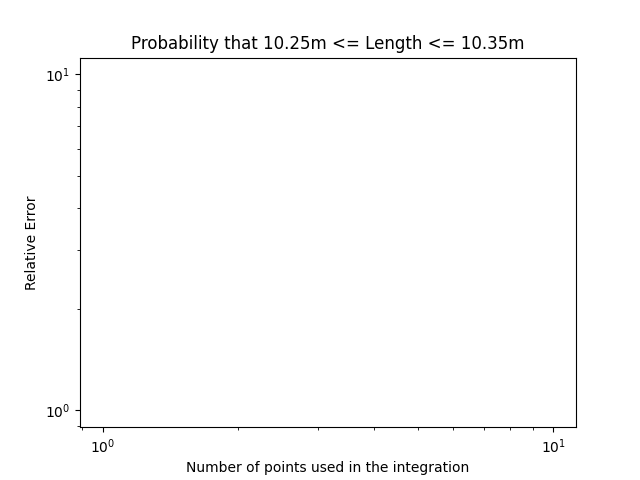
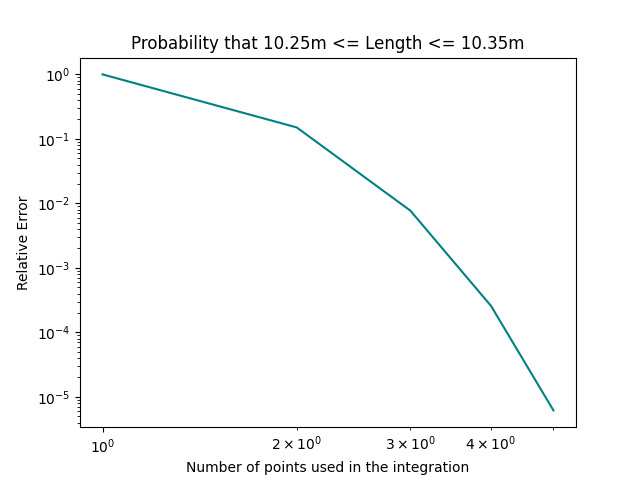
Fixed Gauss

diff --git a/src/goph420_lab01/integration.py b/src/goph420_lab01/integration.py
@@ -74,7 +74,7 @@ def integrate_newton(x,f,alg = "trap"):
     
     return integral
 
-def integrate_gauss(f, lims, npts):
+def integrate_gauss(f, lims, npts = 3):
     """
     Integration from sample points using Gauss-Legendre quadrature
 
@@ -105,10 +105,8 @@ def integrate_gauss(f, lims, npts):
             Float
     """
     #Check that f is callable
-    try:
-        callable(f)
-    except ValueError:
-        print("Object cannot be called")
+    if not callable(f):
+        raise TypeError(f"The function {f} is not callable")
 
     #Check that lims has a length of 2
     if len(lims) != 2:
@@ -121,57 +119,52 @@ def integrate_gauss(f, lims, npts):
     #Change the lims array values into integer values to use in furture
     #Raise error if not possible
     try:
-        a = int(lims[0])
-        b = int(lims[1])
+        a = float(lims[0])
+        b = float(lims[1])
     except ValueError:
         print("The upper or lower limit bounds cannot be changed to integers")
-
-
-
-    #Start the integral at 0
-    integral = 0
-
-    #Change the value of npts into an interger just incase
-    npts = int(npts)
     
-
     #If the number of points = 1
     if npts == 1:
-        weights = [2.0]
         s_k = [0.0]
+        c_k = [2.0]
     
     #If the number of points = 2
     elif npts == 2:
-        weights = [1.0, 1.0]
-        s_k = [-1/np.sqrt(3), 1/np.sqrt(3)]
+        s_k = [- 1 / np.sqrt(3), 1 / np.sqrt(3)]
+        c_k = [1.0, 1.0]
     
     #If the number of points = 3
     elif npts == 3:
-        weights = [5/9, 8/9, 5/9]
-        s_k = [-1/np.sqrt(3/5), 0, np.sqrt(3/5)]
+        s_k = [- np.sqrt(3/5), 0.0, np.sqrt(3/5)]
+        c_k = [5/9, 8/9, 5/9]
 
     #If the number of points = 4
     elif npts == 4:
-        weights = [(18 - np.sqrt(30))/36, (18 + np.sqrt(30))/36, (18 + np.sqrt(30))/36, (18 - np.sqrt(30))/36]
         s_k = [(-1*np.sqrt((3/7) + (2/7)*np.sqrt(6/5))), -1*np.sqrt((3/7) - (2/7)*np.sqrt(6/5)), np.sqrt((3/7) - (2/7)*np.sqrt(6/5)), np.sqrt((3/7) + (2/7)*np.sqrt(6/5))]
-
+        c_k = [(18 - np.sqrt(30))/36, (18 + np.sqrt(30))/36, (18 + np.sqrt(30))/36, (18 - np.sqrt(30))/36]
     #If the number of points = 5
     elif npts == 5:
-        weights = [(322 - 13*np.sqrt(70))/900, (322 + 13*np.sqrt(70))/900, 128/225, (322 + 13*np.sqrt(70))/900, (322 - 13*np.sqrt(70))/900]
         s_k = [-(1/3)*np.sqrt(5+2*np.sqrt(10/7)), -(1/3)*np.sqrt(5-2*np.sqrt(10/7)), 0, (1/3)*np.sqrt(5-2*np.sqrt(10/7)),(1/3)*np.sqrt(5+2*np.sqrt(10/7))]
+        c_k = [(322 - 13*np.sqrt(70))/900, (322 + 13*np.sqrt(70))/900, 128/225, (322 + 13*np.sqrt(70))/900, (322 - 13*np.sqrt(70))/900]
 
-    #Make an empty array for the new changed weights and points
-    transpoints = np.zeros(npts)
-    transweights = np.zeros(npts)
+    #Make an empty array for the new changed/transfromed weights and points
+    transpoints = [0]
+    transweights = [0]
+    
+    #Put the transformed points into the function into an array for the function
+    for i, j in enumerate(s_k):
+        tran_s_k = 0.5*(a + b)+ 0.5 * (b - a) * s_k[i]
+        f_k = f(tran_s_k)
+        transpoints.append(f_k)
+        print(transpoints)
+    
+    for i, j in enumerate(c_k):
+        wk = 0.5* (b - a) * c_k[i]
+        transweights.append(wk)
+        print(transweights)
 
-    #Finding the changes weights and s_k
-    for i in range (0, npts):
-        transweights[i] = (((b - a) / 2) * weights[i])
-        transpoints[i] = (0.5 * (a + b) + 0.5 * (b - a) * s_k[i])
-
-    #Calculating the integral, need to put the new points into the function
-    for i in range (0, npts):
-        integral += transweights[i] * f(transpoints[i])
+    #Calculating the integral (sum of the product of the transformed weights and the function of the transformed points)
+    integral = np.sum(np.array(transweights) * np.array(transpoints))
     return integral
-
 

diff --git a/examples/driver_probability.py b/examples/driver_probability.py
@@ -25,7 +25,7 @@ def main():
     #Calculate the probablitiy of a M > 4.0 event, lims upper bound is 4 while the mean of 0.5 is the lower bound
     for i in npts:
         new_integral = integrate_gauss(f, lims = [1.5, 4], npts = i)
-        print(new_integral)
+        #print(new_integral)
         eps_a = np.abs(new_integral - past_integral) / new_integral
         #Add the convergence of the integral to the array
         converged_integrals.append(new_integral)
@@ -48,10 +48,10 @@ def main():
     npts = [1,2,3,4,5]
 
     #Function from equation 17
-    f = lambda x: (1/np.sqrt(2 * np.pi)) * (np.exp((-1 / 2)*((x - mean) / (std_dev) ** 2)))
+    f = lambda x: (1/ np.sqrt(2 * np.pi)) * (np.exp(-0.5*((x - mean) ** 2 / (std_dev) ** 2)))
     
     #Creating arrays for the convergent integrals as well as the relative errors
-    convergent_integrals = []
+    converged_integrals = []
     relative_error = []
 
     #Initialization past integral
@@ -60,7 +60,7 @@ def main():
     
     for i in npts:
         new_integral = integrate_gauss(f, lims = [10.25, 10.35], npts = i)
-        print(new_integral)
+        #print(new_integral)
         eps_a = np.abs(new_integral - past_integral) / new_integral
         #Add the convergence of the integral to the array
         converged_integrals.append(new_integral)

diff --git a/tests/test_newton_cotes.py b/tests/test_newton_cotes.py
@@ -19,7 +19,7 @@ class TestNewtonCotes(unittest.TestCase):
     #Test simp rule with odd number of data points
     def testSimpOdd(self):
         self.x = [0,1,2]
-        self.f = -1 * self.x ** 2
+        self.f = [0,-1,-4]
         self.newInt = integrate_newton(self.x,self.f, alg = "simp")
         #Check that they're equal
         expected = -1 * (8 / 3)
@@ -28,10 +28,10 @@ class TestNewtonCotes(unittest.TestCase):
     #Test simp rule with even number of data points
     def testSimpEven(self):
         self.x = [0,1,2,3]
-        self.f = -1 * self.x ** 2
+        self.f = [0,-1,-4,-9]
         self.newInt = integrate_newton(self.x, self.f, alg = "simp")
         #Check that they're equal
-        expected = - 9
+        expected = -9
         self.assertAlmostEqual(self.newInt, expected)
 
 
